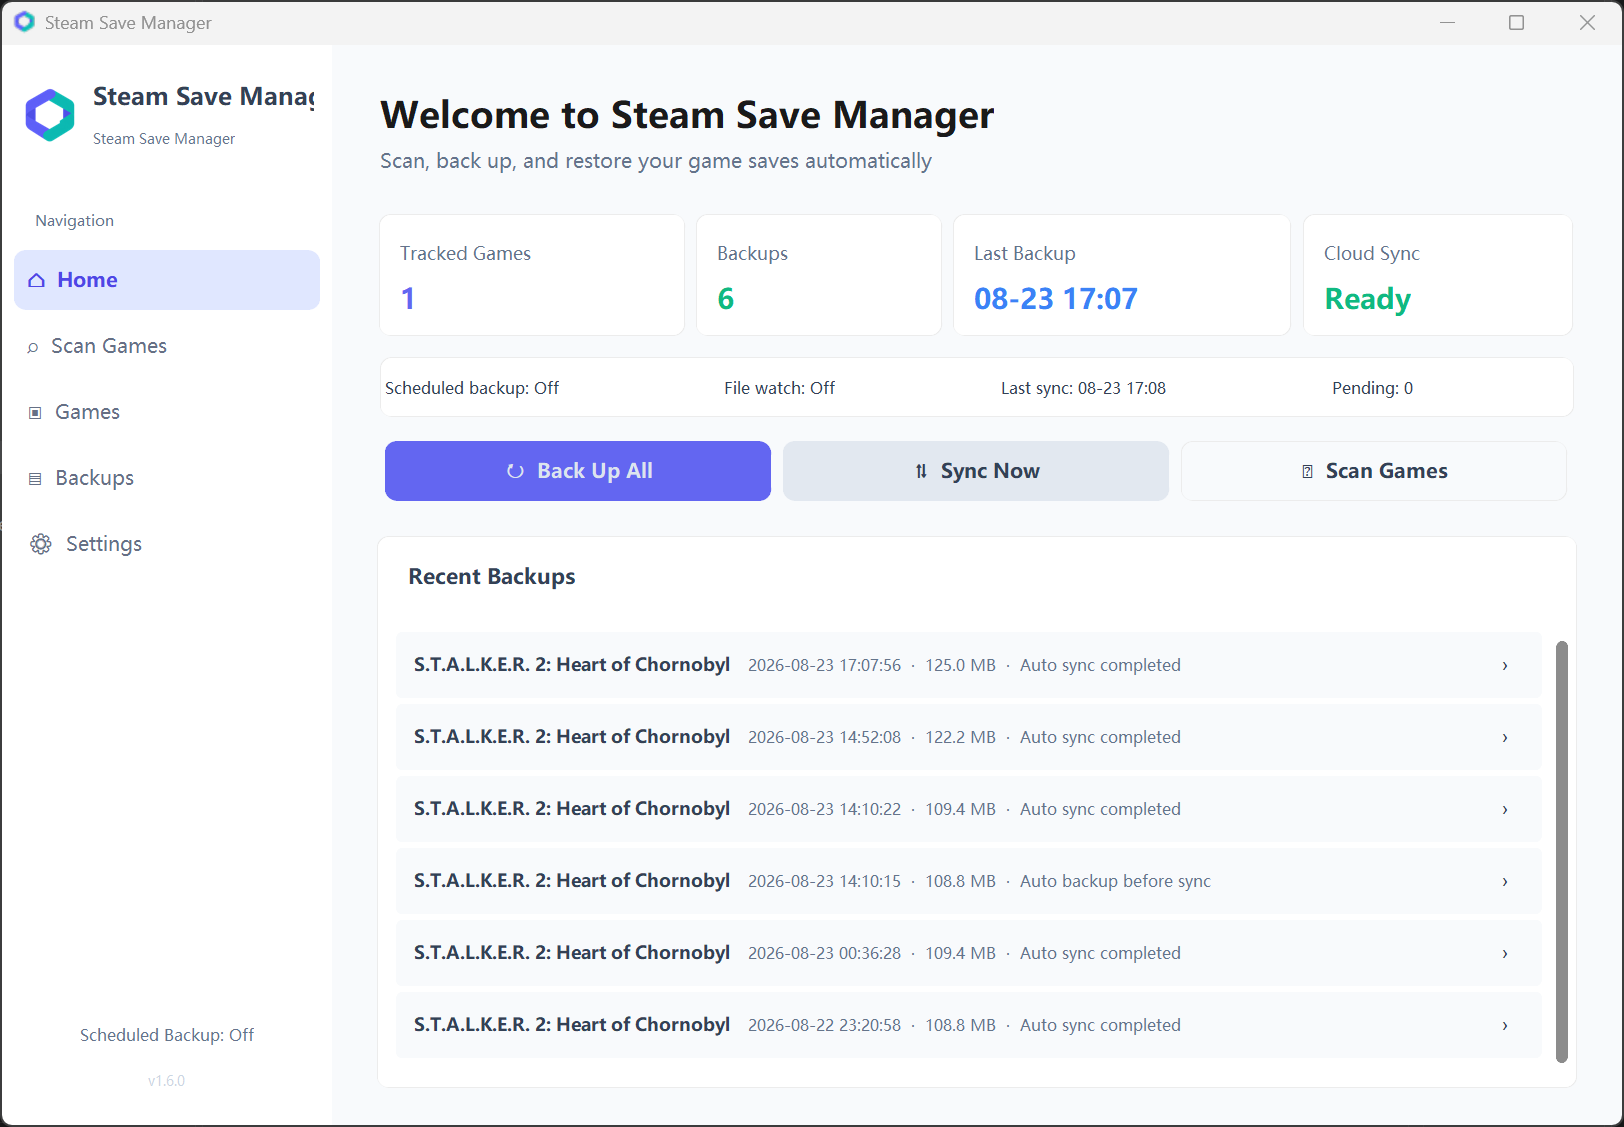
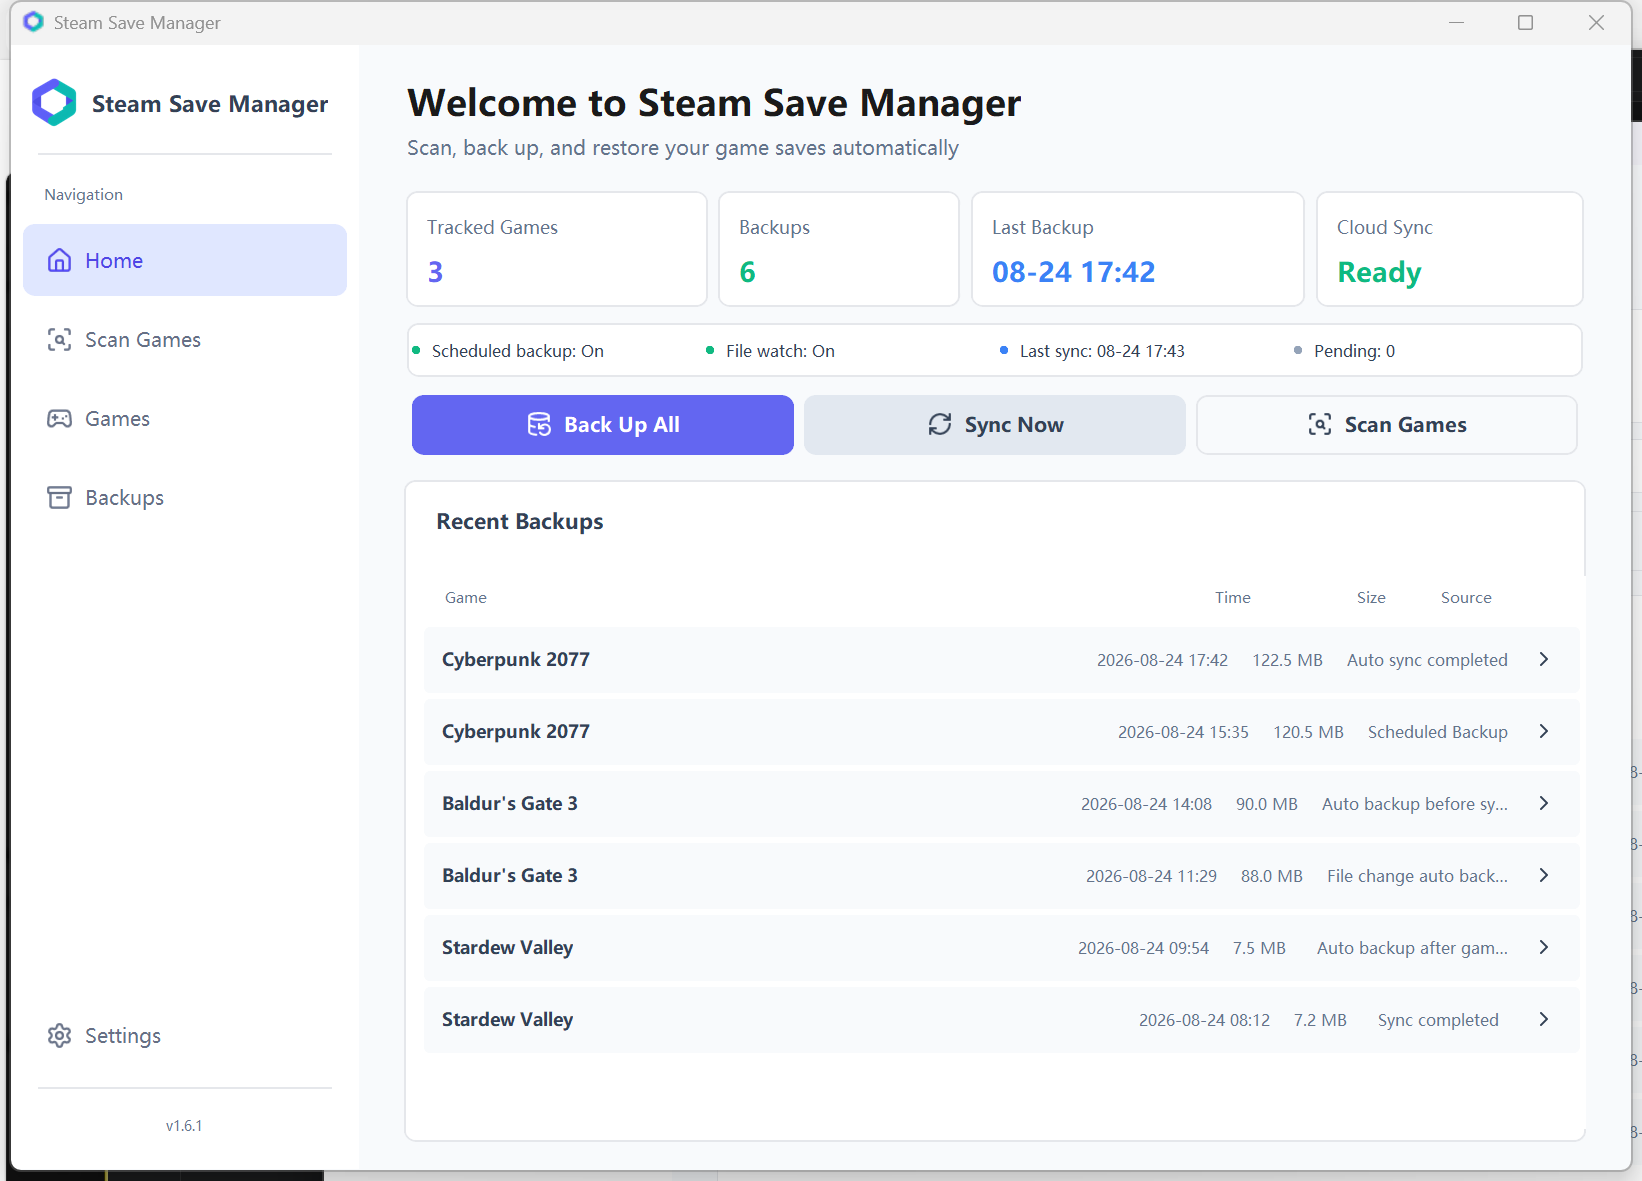
docs: refresh README screenshots for 1.6.1
- Replace the Chinese and English Home screenshots with the current 1.6.1 interface.
- Refresh the Games and WebDAV Settings screenshots with the new flat icons and layouts.

diff --git a/README.md b/README.md
@@ -25,7 +25,7 @@
   <a href="https://github.com/Kiowx/save_manager/releases">查看所有版本</a>
 </p>
 
-![Steam Save Manager 主页](./assets/screenshots/home.png)
+![Steam Save Manager 1.6.1 主页](./assets/screenshots/home.png)
 
 <details>
 <summary>查看更多界面</summary>

diff --git a/README_EN.md b/README_EN.md
@@ -25,7 +25,7 @@
   <a href="https://github.com/Kiowx/save_manager/releases">View all releases</a>
 </p>
 
-![Steam Save Manager Home](./assets/screenshots/home-en.png)
+![Steam Save Manager 1.6.1 Home](./assets/screenshots/home-en.png)
 
 ## Features
 
